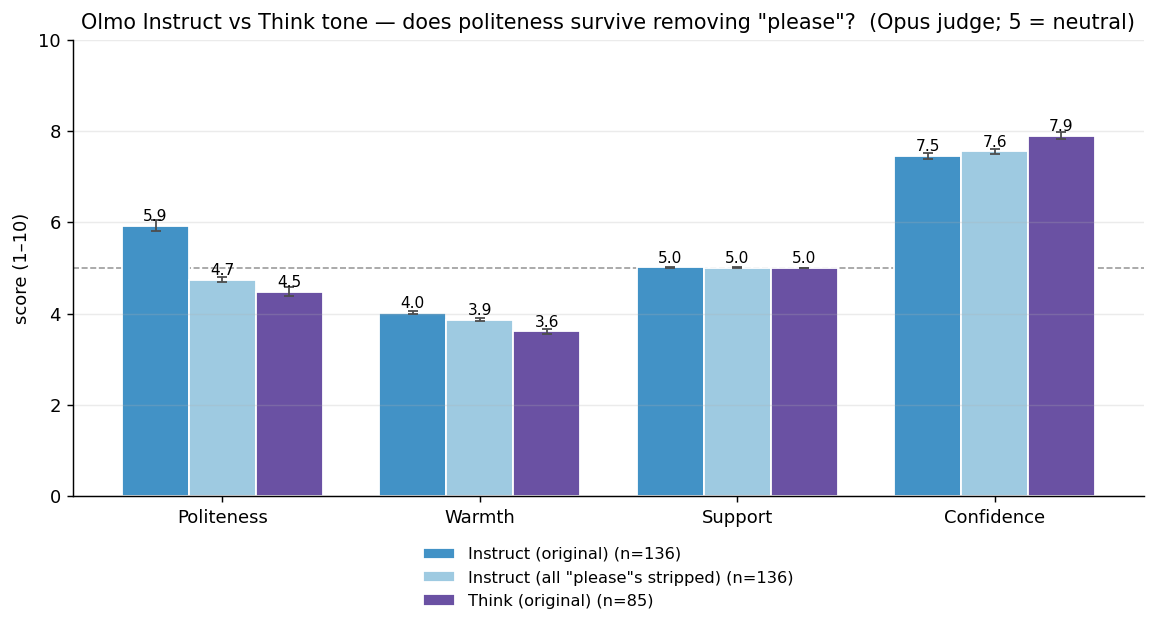
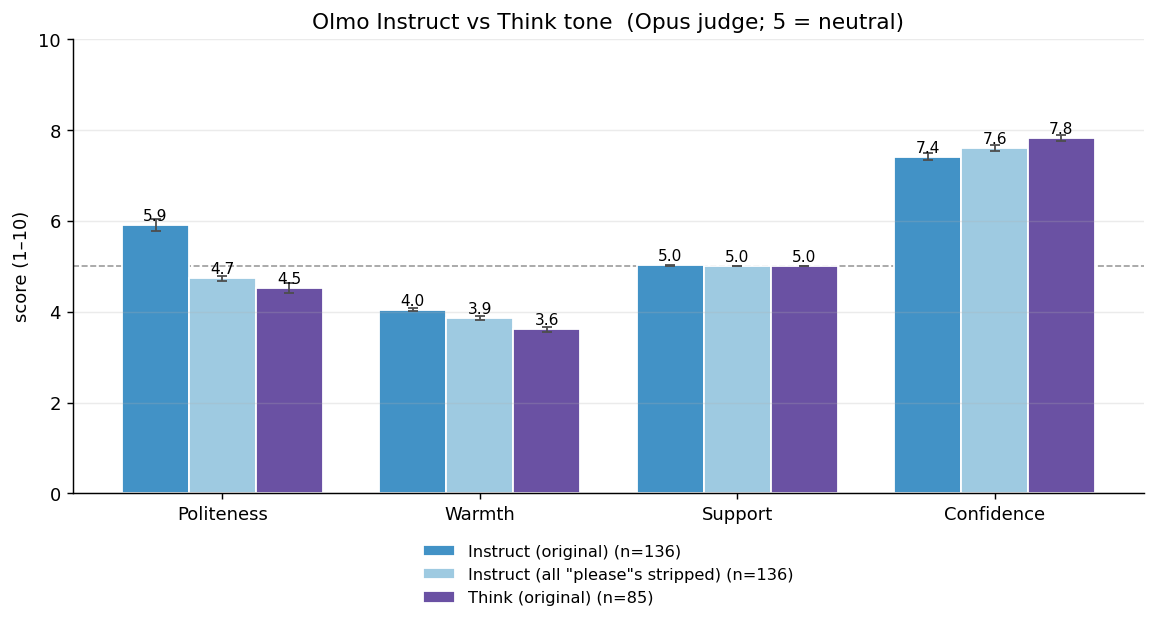
please-ablation plot: simplify title

diff --git a/experiments/2026-06-09_distressed_subagent_gemini/analysis/please_ablation.py b/experiments/2026-06-09_distressed_subagent_gemini/analysis/please_ablation.py
@@ -113,7 +113,7 @@ def main(conc: int = 30):
     ax.set_xticklabels([a.capitalize() for a in AXES])
     ax.set_ylabel("score (1–10)")
     ax.set_ylim(0, 10)
-    ax.set_title("Olmo Instruct vs Think tone — does politeness survive removing \"please\"?  (Opus judge; 5 = neutral)", fontsize=11.5)
+    ax.set_title("Olmo Instruct vs Think tone  (Opus judge; 5 = neutral)", fontsize=12)
     ax.legend(frameon=False, fontsize=9, loc="upper center", ncol=1, bbox_to_anchor=(0.5, -0.08))
     ax.grid(axis="y", alpha=0.25)
     ax.spines[["top", "right"]].set_visible(False)
